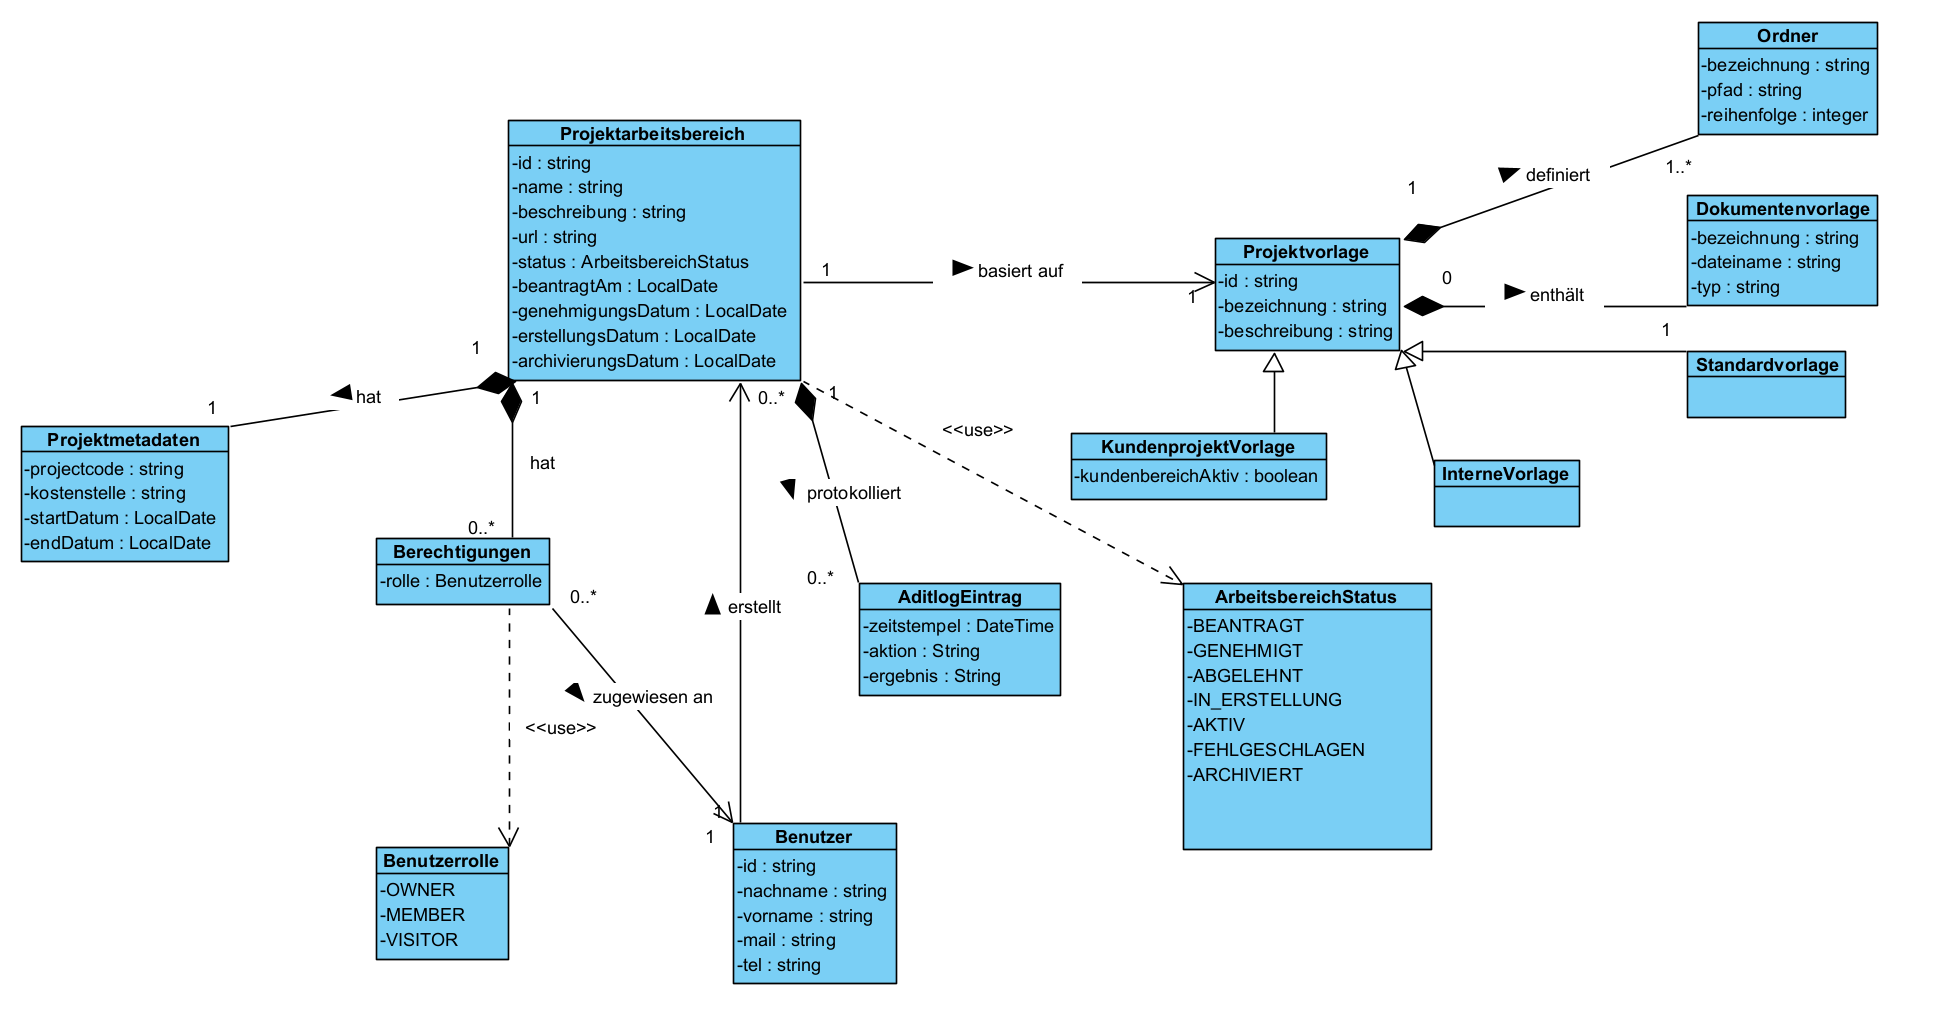
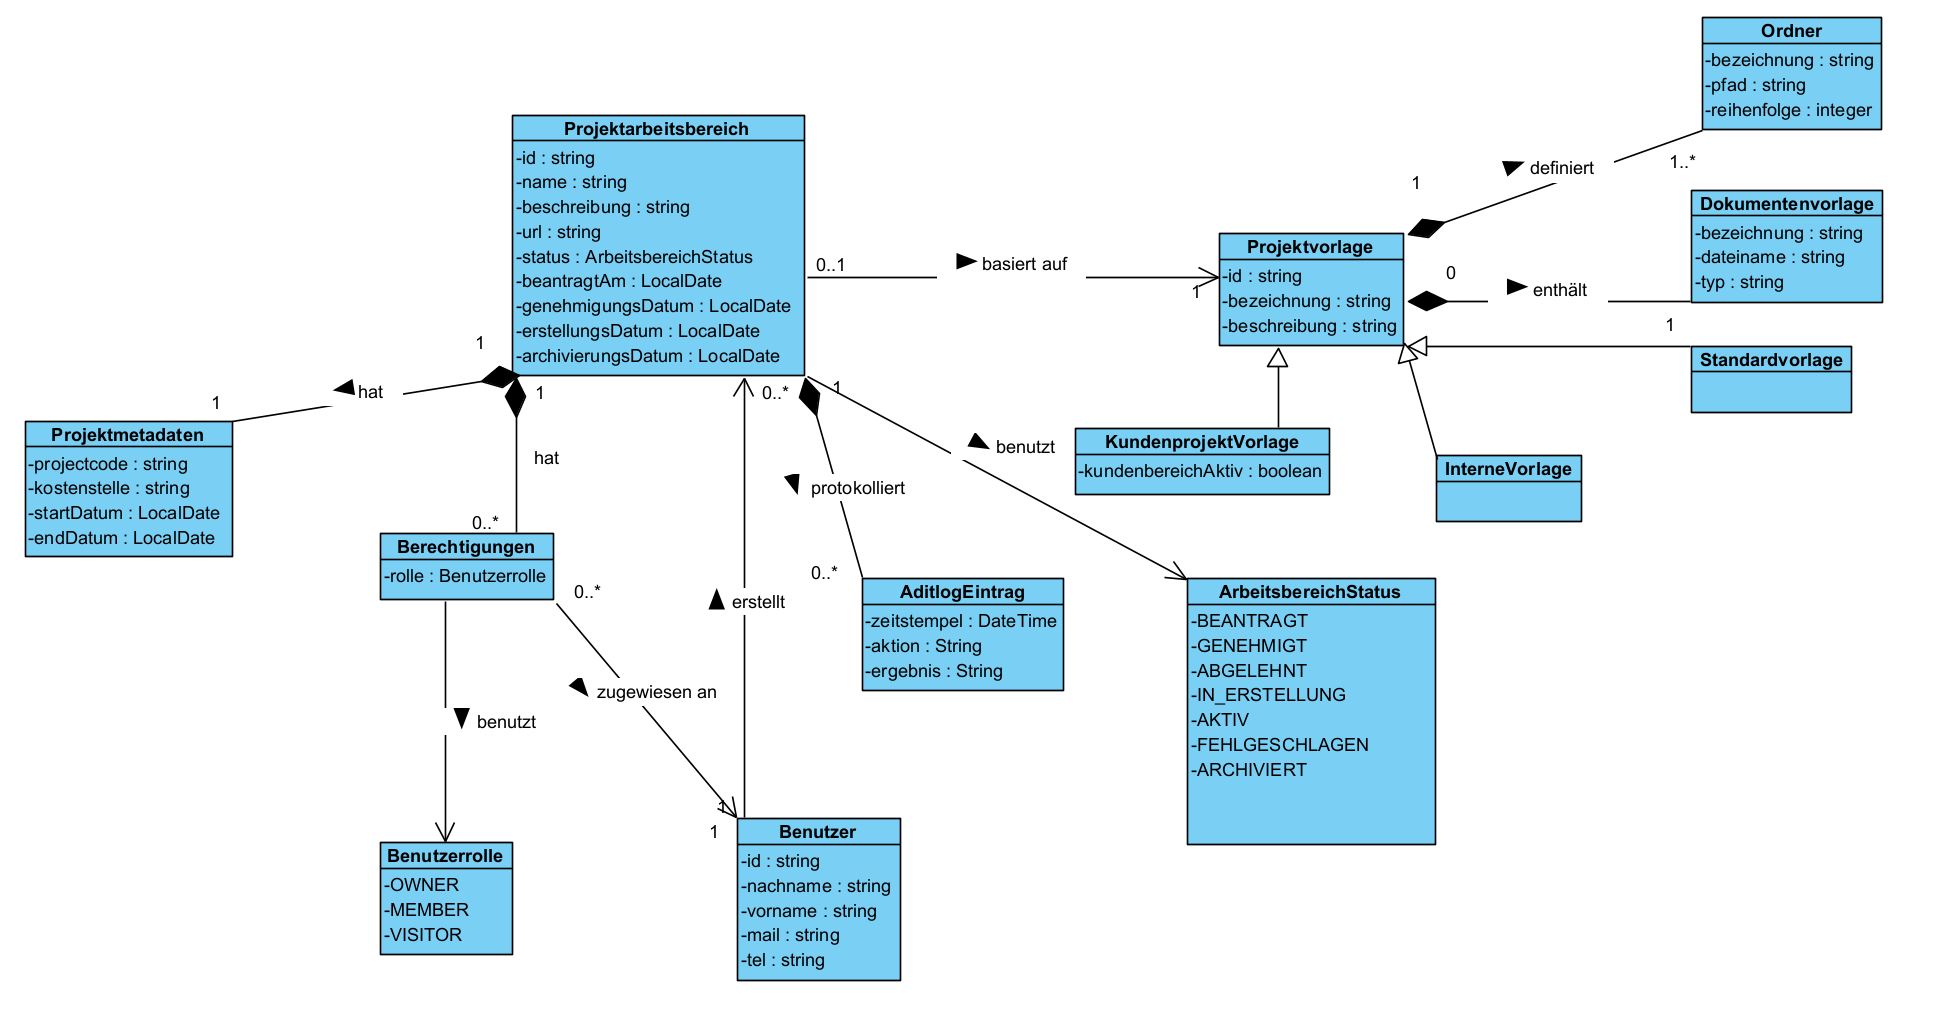
docs: Diagramme aktualisieren und Unterrichts-Besprechungsprotokoll hinzufügen
- Klassendiagramm (neue Version mit Assoziationen) in docs/analyse und docs/architektur aktualisiert
- Zustandsdiagramm in docs/analyse aktualisiert
- Besprechungsprotokoll vom Unterricht 2026-04-11 hinzugefügt (Feedback Dozent: Abhängigkeiten → Assoziationen, Multiplizität anpassen)
- Arbeitsprotokoll nachgeführt

diff --git a/docs/besprechungen/2026-04-11_Unterricht-Diagrammbesprechung.md b/docs/besprechungen/2026-04-11_Unterricht-Diagrammbesprechung.md
@@ -1,0 +1,33 @@
+# Besprechung – 2026-04-11 Diagrammbesprechung im Unterricht
+
+**Datum:** 2026-04-11
+**Teilnehmer:** Benjamin Golder, Dennis Eberhard, Arif Chughtai (Dozent), Klasse
+**Dauer:** Unterrichtseinheit
+
+---
+
+## Traktanden
+1. Review Klassendiagramm (OOA Aufgabe 3)
+2. Review Zustandsdiagramm (OOA Aufgabe 3)
+
+## Besprochenes
+
+### Klassendiagramm
+Das Klassendiagramm wurde gemeinsam mit dem Dozenten und der Klasse besprochen. Grundsätzlich stimmt der Entwurf. Folgende Korrekturen wurden festgehalten:
+
+- **Abhängigkeiten → Assoziationen:** Alle Abhängigkeitsbeziehungen (gestrichelte Pfeile) müssen durch Assoziationen ersetzt werden.
+- **Multiplizität ProjektArbeitsbereich ↔ ProjektVorlage:** Die Beziehung ist keine Komposition, sondern eine Assoziation (Multiplizität anpassen).
+
+### Zustandsdiagramm
+Das Zustandsdiagramm wurde besprochen. Grundsätzlich korrekt, keine weiteren Änderungen notwendig.
+
+## Beschlüsse
+- Klassendiagramm gemäss Feedback korrigieren (Assoziationen, Multiplizität)
+- Korrigierte Diagramme in Visual Paradigm nachführen und exportieren
+
+## Offene Punkte / Folgeaufgaben
+
+| Aufgabe | Verantwortlich | Fällig bis |
+|---|---|---|
+| Abhängigkeiten im Klassendiagramm durch Assoziationen ersetzen | Benjamin / Dennis | – |
+| Multiplizität zwischen ProjektArbeitsbereich und ProjektVorlage korrigieren (Assoziation statt Komposition) | Benjamin / Dennis | – |

diff --git a/ARBEITSPROTOKOLL.md b/ARBEITSPROTOKOLL.md
@@ -109,3 +109,23 @@ Dieses Protokoll dokumentiert alle Arbeitsschritte und Fortschritte im Projektve
 - Klassendiagramm aus Visual Paradigm als PNG exportiert
 - Bild unter `docs/architektur/klassendiagramm.png` abgelegt
 - `docs/architektur/README.md` mit Diagramm und Klassenbeschreibungen ergänzt
+
+---
+
+## 2026-04-11 (Unterricht)
+
+**Teilnehmer:** Benjamin Golder, Dennis Eberhard, Arif Chughtai (Dozent), Klasse
+**Dauer:** Unterrichtseinheit
+
+### Erledigtes
+
+**Diagrammbesprechung im Unterricht (Aufgabe 3 – OOA)**
+- Klassen- und Zustandsdiagramm gemeinsam mit Dozent und Klasse besprochen
+- Grundsätzlich korrekt; zwei Korrekturen im Klassendiagramm festgehalten:
+  - Abhängigkeiten durch Assoziationen ersetzen
+  - Multiplizität zwischen ProjektArbeitsbereich und ProjektVorlage anpassen (keine Komposition)
+- Aktualisierte Diagramme (Klassen- und Zustandsdiagramm) in Repository eingecheckt
+- Besprechungsprotokoll unter `docs/besprechungen/2026-04-11_Unterricht-Diagrammbesprechung.md` abgelegt
+
+### Nächste Schritte
+- Klassendiagramm in Visual Paradigm gemäss Feedback korrigieren und neu exportieren